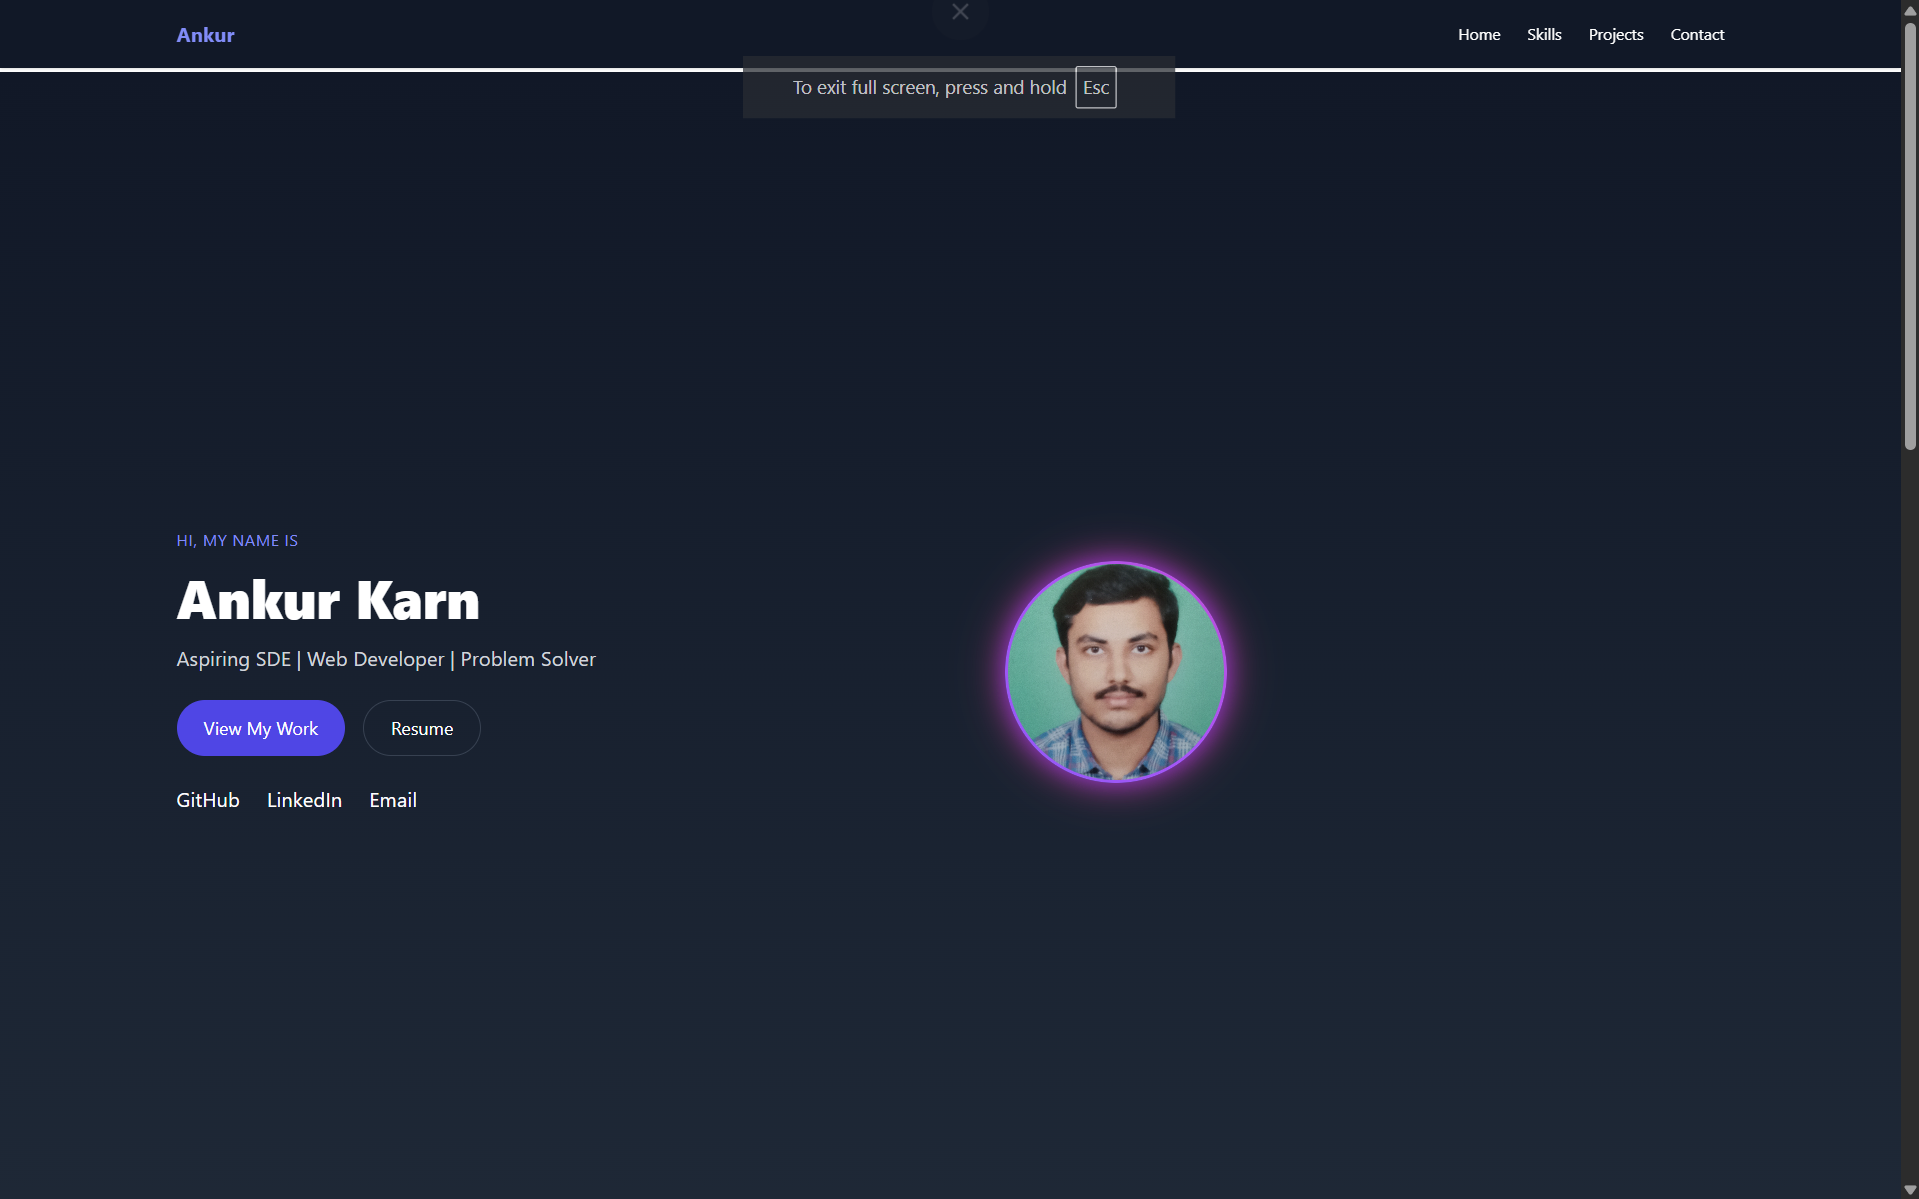
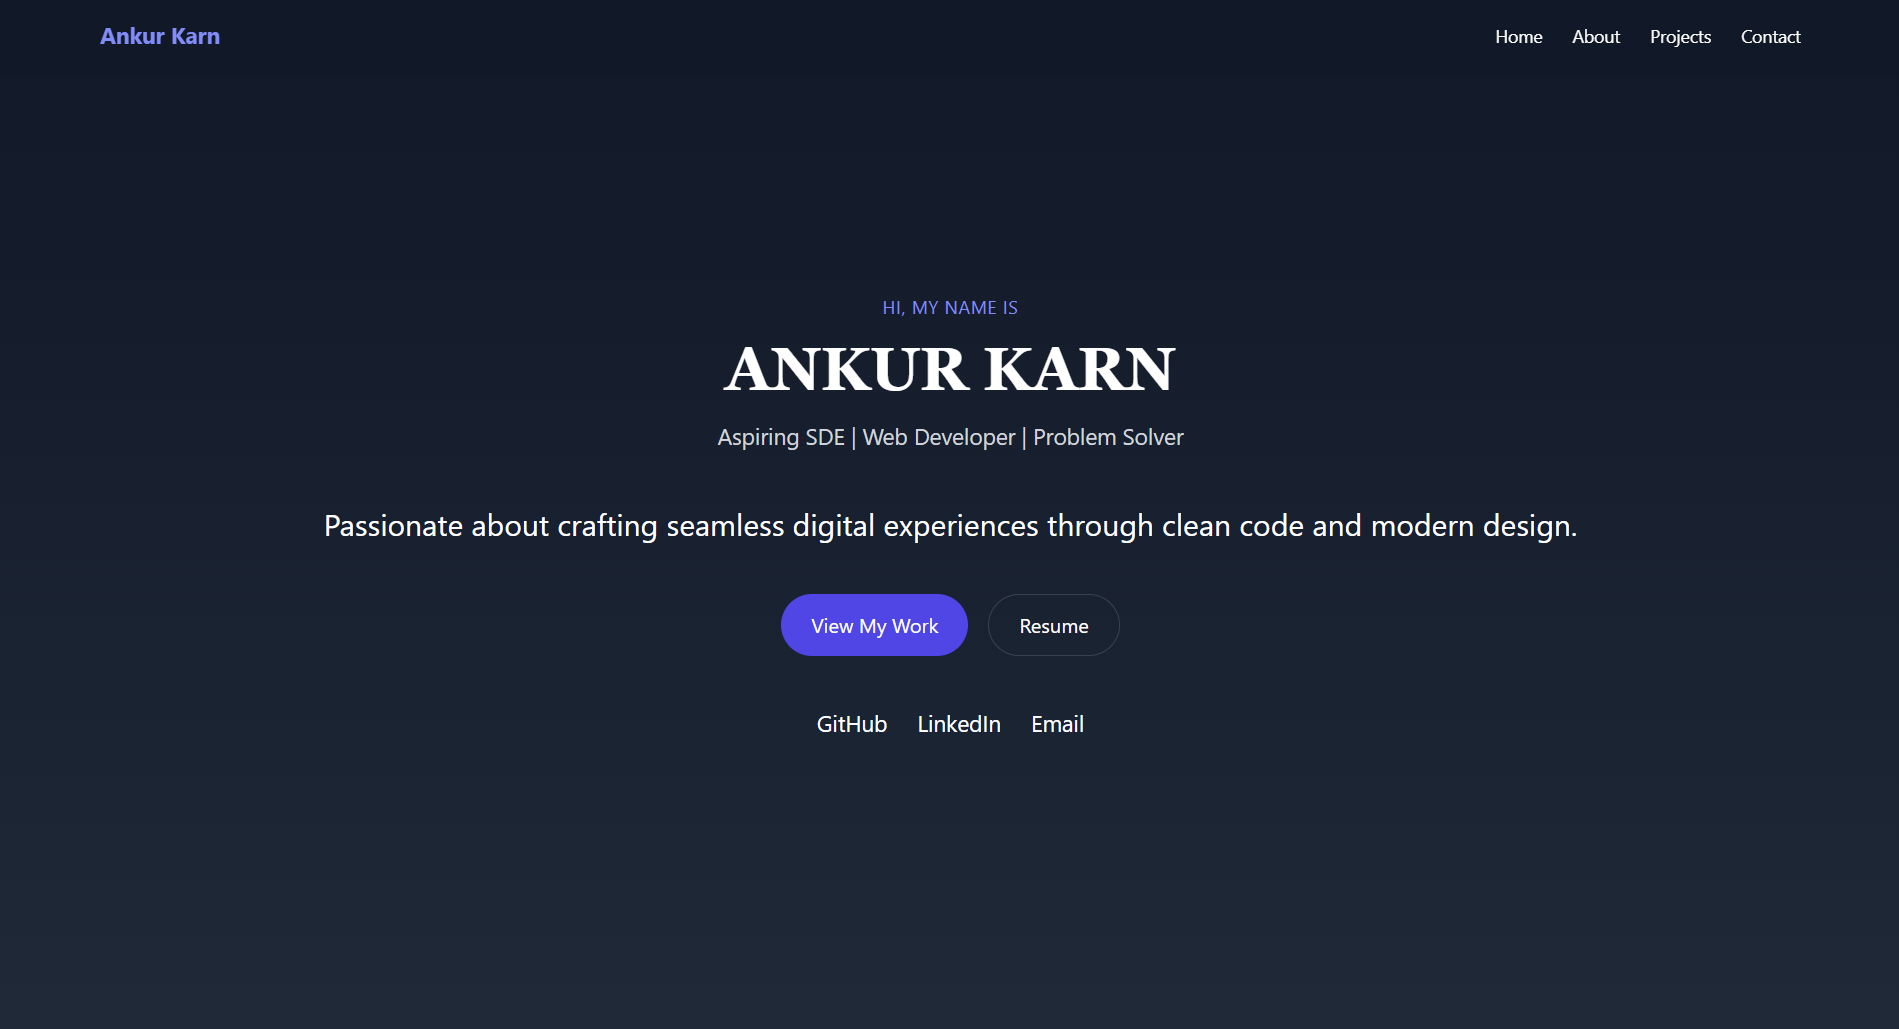
Changed few pics and project line

diff --git a/src/components/Projects.jsx b/src/components/Projects.jsx
@@ -4,13 +4,13 @@ export default function Projects() {
       title: "Portfolio Website",
       description: "A personal portfolio built with React and Tailwind CSS to showcase my skills, projects, and contact info.",
       image: "/portfolio.jpg", // Replace with screenshot path
-      link: "https://github.com/ankurkarn7/", // Replace with GitHub/Live link
+      link: "https://ankurkarn-portfolio.vercel.app/",
     },
     {
       title: "To-Do List App",
       description: "A simple task management app built with React for adding, editing, and deleting tasks.",
-      image: "/todolist.jpg", // Replace with screenshot path
-      link: "https://notes-app-one-smoky.vercel.app/", // Replace with GitHub/Live link
+      image: "/todolist.jpg",
+      link: "https://notes-app-one-smoky.vercel.app/",
     },
   ];
 
@@ -31,7 +31,7 @@ export default function Projects() {
               <img
                 src={project.image}
                 alt={project.title}
-                className="w-full h-48 object-cover"
+                className="w-full h-96 object-cover"
               />
               <div className="p-6">
                 <h3 className="text-xl font-bold mb-2">{project.title}</h3>

diff --git a/src/components/Navbar.jsx b/src/components/Navbar.jsx
@@ -15,7 +15,7 @@ const Navbar = () => {
         <div className="flex gap-6 text-sm">
           <Link to="/" className="hover:text-indigo-300 transition">Home</Link >
           <Link to="/about" className="hover:text-indigo-300 transition">About</Link >
-          <Link to="/" className="hover:text-indigo-300 transition">Projects</Link >
+          <Link to="/project" className="hover:text-indigo-300 transition">Projects</Link >
           <Link to="/contact" className="hover:text-indigo-300 transition">Contact</Link >
         </div>
       </div>

diff --git a/src/components/Footer.jsx b/src/components/Footer.jsx
@@ -14,7 +14,7 @@ export default function Footer() {
         <div className="flex gap-6 text-sm">
           <Link to="/" className="hover:text-white transition">Home</Link>
           <Link to="/about" className="hover:text-white transition">About</Link>
-          <Link to="#projects" className="hover:text-white transition">Projects</Link>
+          <Link to="/project" className="hover:text-white transition">Projects</Link>
           <Link to="/contact" className="hover:text-white transition">Contact</Link>
         </div>
 

diff --git a/src/App.jsx b/src/App.jsx
@@ -24,6 +24,10 @@ function App() {
       path:"/contact",
       element:<Contact />
     },
+    {
+      path:"/project",
+      element:<><Navbar/><Projects /><Socials /><Footer/></>
+    }
   ])
   return (
     <>
